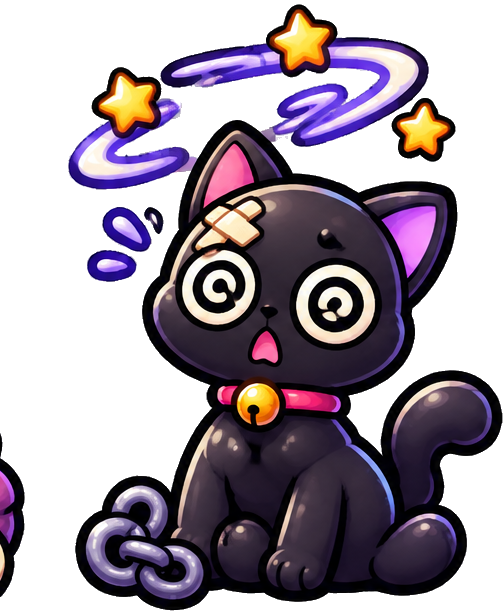
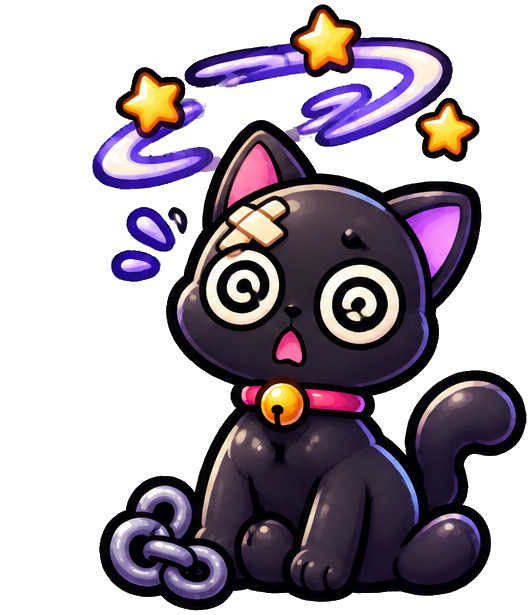
Full-screen prowl result, paw arrows, and two art fixes
Prowl result: was a max-w-lg box floating over the running game. It is now the
whole screen, art on the left and what happened on the right, so the cat is
something you look at rather than a thumbnail above a wall of text. The
backdrop is fully opaque: the prowl canvas stays mounted underneath, and at
any transparency its rooftops showed through and read as a crop on the cat.

result-fall.png carried a detached fragment of tail at x=24..48, separated
from the cat by a gap — a leftover from how the asset was originally cropped.
Cleared it (2,505 pixels) and widened the canvas so nothing touches an edge.

The Diary scroll is drawn narrow and tall, so it fitted the dock's square tile
by height and read smaller than the wide icons beside it. It renders a little
over its box now to match their weight.

Arrows: "→" was a system glyph sitting in pixel-art buttons. Adds ui-forward
(ui-back mirrored, so it is the artist's own cream-and-pink paw) and uses it
in the buttons that move you forward, plus ui-back for Newer in the pager.
Inline text links and the "swipe right / →" key hints keep the character,
where an icon would be wrong.

diff --git a/components/Prowl.tsx b/components/Prowl.tsx
@@ -415,12 +415,12 @@ export default function Prowl({ beast, onSettled, onNeedsKey }: Props) {
         </div>
       )}
 
-      {/* the result, over the scene */}
+      {/* The result: the whole screen, not a box in the middle of it. The backdrop is fully opaque
+          because the prowl canvas stays mounted underneath — at any transparency its rooftops show
+          through the art and read as a crop on the cat. */}
       {phase === "done" && outcome && (
-        <div className="fixed inset-0 flex items-center justify-center overflow-y-auto bg-night-950/70 p-4 backdrop-blur-sm">
-          <div className="glass w-full max-w-lg animate-rise p-5">
-            <Result outcome={outcome} beast={beast} settle={settle} stray={stray} onAgain={() => setPhase("choose")} />
-          </div>
+        <div className="fixed inset-0 z-50 overflow-y-auto bg-night-950">
+          <Result outcome={outcome} beast={beast} settle={settle} stray={stray} onAgain={() => setPhase("choose")} />
         </div>
       )}
     </div>,
@@ -521,50 +521,63 @@ function Result({
   const keptHaul = !(reason === "fell" && daring);
   const awnings = Object.values(result.whips_on_awning).reduce((a, b) => a + b, 0);
   return (
-    <div className="mx-auto flex max-w-md flex-col items-center gap-3 text-center animate-rise">
-      <Art slot={reason === "fell" ? "result-fall" : reason === "cashout" ? "result-cashout" : "result-haul"} alt="" size={200} />
-      <h3 className="title-3d text-2xl">{title}</h3>
-      <p className="text-sm text-mist">
-        {result.rooftops} rooftops{daring ? ` · ×${multiplier({ daring, rooftops: result.rooftops }).toFixed(2)}` : ""} · {result.binds} rats bound
-        {awnings ? ` · ${awnings} bits of mischief` : ""}
-      </p>
-      {result.haul.length ? (
-        <div className={`flex flex-wrap justify-center gap-2 ${keptHaul ? "" : "opacity-40 line-through"}`}>
-          {result.haul.map(([k, n]) => (
-            <span key={k} className="flex items-center gap-1 rounded-full bg-white/5 px-3 py-1 text-sm">
-              <Art slot={`item-${k}`} size={20} alt="" /> {n} {ITEM_LABEL[k] ?? k}
-            </span>
-          ))}
-        </div>
-      ) : (
-        <p className="text-sm text-mist">Paws empty this time.</p>
-      )}
-      {lostLife && (
-        <div className="flex flex-col items-center gap-2">
-          <ChainTail lives={livesAfter} legend={beast?.legend} flash={livesAfter} size="sm" />
-          <p className="text-sm text-[#ffb3a1]">
-            A link went dark{result.mark ? ` and left a mark: ${result.mark.replace("-", " ")}` : ""}. The haul tumbled into the alley
-            {" "}(unless a charm caught it).
-          </p>
-          {result.mark && <Art slot={markSlot(result.mark)} size={56} className="animate-pop" />}
-        </div>
-      )}
-      {stray ? (
-        <p className="text-xs text-mist">Strays keep nothing. Scan a Beast to keep your haul.</p>
-      ) : reason === "quit" ? (
-        <p className="text-xs text-mist">Stopped runs aren&apos;t recorded.</p>
-      ) : settle.state === "pending" ? (
-        <p className="flex items-center gap-2 text-sm text-mist">
-          <Spinner /> Writing it in the diary…
+    // Art on the left, what happened on the right: the screen is wide, so the cat gets room to be
+    // looked at instead of being squeezed into a dialog above a wall of text. Stacks on phones.
+    <div className="mx-auto flex min-h-full w-full max-w-6xl flex-col items-center gap-6 px-4 py-10 animate-rise md:flex-row md:items-center md:gap-12 md:px-10">
+      <div className="flex w-full shrink-0 justify-center md:w-[42%]">
+        <Art
+          slot={reason === "fell" ? "result-fall" : reason === "cashout" ? "result-cashout" : "result-haul"}
+          alt=""
+          className="w-[min(72vw,340px)] drop-shadow-[0_12px_28px_rgba(0,0,0,0.6)] md:w-full md:max-w-[420px]"
+        />
+      </div>
+
+      <div className="flex w-full min-w-0 flex-col items-center gap-3 text-center md:items-start md:text-left">
+        <h3 className="title-3d text-2xl sm:text-3xl">{title}</h3>
+        <p className="text-sm text-mist">
+          {result.rooftops} rooftops{daring ? ` · ×${multiplier({ daring, rooftops: result.rooftops }).toFixed(2)}` : ""} · {result.binds} rats bound
+          {awnings ? ` · ${awnings} bits of mischief` : ""}
         </p>
-      ) : settle.state === "ok" ? (
-        <Notice kind="ok">Saved to {beast?.name ?? "your Beast"}&apos;s diary, and counted in tonight&apos;s check-in.</Notice>
-      ) : settle.state === "err" ? (
-        <Notice kind="err">{settle.text}</Notice>
-      ) : null}
-      <button className="btn btn-lantern" onClick={onAgain} disabled={settle.state === "pending"}>
-        Prowl again
-      </button>
+        {result.haul.length ? (
+          <div className={`flex flex-wrap justify-center gap-2 md:justify-start ${keptHaul ? "" : "opacity-40 line-through"}`}>
+            {result.haul.map(([k, n]) => (
+              <span key={k} className="flex items-center gap-1 rounded-full bg-white/5 px-3 py-1 text-sm">
+                <Art slot={`item-${k}`} size={20} alt="" /> {n} {ITEM_LABEL[k] ?? k}
+              </span>
+            ))}
+          </div>
+        ) : (
+          <p className="text-sm text-mist">Paws empty this time.</p>
+        )}
+        {lostLife && (
+          <div className="flex flex-col items-center gap-2 md:items-start">
+            <ChainTail lives={livesAfter} legend={beast?.legend} flash={livesAfter} size="sm" />
+            <div className="flex items-center gap-3">
+              {result.mark && <Art slot={markSlot(result.mark)} size={48} className="shrink-0 animate-pop" />}
+              <p className="text-sm text-[#ffb3a1]">
+                A link went dark{result.mark ? ` and left a mark: ${result.mark.replace("-", " ")}` : ""}. The haul tumbled into the alley
+                {" "}(unless a charm caught it).
+              </p>
+            </div>
+          </div>
+        )}
+        {stray ? (
+          <p className="text-xs text-mist">Strays keep nothing. Scan a Beast to keep your haul.</p>
+        ) : reason === "quit" ? (
+          <p className="text-xs text-mist">Stopped runs aren&apos;t recorded.</p>
+        ) : settle.state === "pending" ? (
+          <p className="flex items-center gap-2 text-sm text-mist">
+            <Spinner /> Writing it in the diary…
+          </p>
+        ) : settle.state === "ok" ? (
+          <Notice kind="ok">Saved to {beast?.name ?? "your Beast"}&apos;s diary, and counted in tonight&apos;s check-in.</Notice>
+        ) : settle.state === "err" ? (
+          <Notice kind="err">{settle.text}</Notice>
+        ) : null}
+        <button className="btn btn-lantern mt-1 px-8 py-3 text-xl" onClick={onAgain} disabled={settle.state === "pending"}>
+          Prowl again
+        </button>
+      </div>
     </div>
   );
 }

diff --git a/components/WakeFlow.tsx b/components/WakeFlow.tsx
@@ -176,7 +176,7 @@ function ScanAction({ beast, me, tokenId, secret, reload }: { beast: Beast; me: 
           </button>
         </div>
         <Link href="/alley" className="btn btn-ghost btn-sm">
-          Into the alley →
+          Into the alley <Art slot="ui-forward" alt="" size={18} />
         </Link>
       </div>
     );
@@ -238,7 +238,7 @@ function Celebration({ beast, kind }: { beast: Beast; kind: "wake" | "boop" | "a
           {kind !== "wake" && <Marks beast={beast} />}
           <div className="mt-2 flex flex-wrap justify-center gap-2">
             <Link href="/alley" className="btn btn-lantern">
-              {kind === "wake" ? "First prowl →" : "Into the alley →"}
+              {kind === "wake" ? "First prowl" : "Into the alley"} <Art slot="ui-forward" alt="" size={22} />
             </Link>
             <Link href={`/beast/${beast.token_id}`} className="btn btn-ghost">
               Life story

diff --git a/lib/ui/art.ts b/lib/ui/art.ts
@@ -51,6 +51,7 @@ export type ArtSlot =
   | "ui-signout"
   | "ui-close"
   | "ui-back"
+  | "ui-forward"
   | "ui-sound-on"
   | "ui-sound-off"
   | "ui-help"
@@ -211,6 +212,7 @@ export const ART: Record<ArtSlot, ArtSpec> = {
   "ui-signout": s("ui-signout.png", 256, 256, "UI · sign out", "Sign out"),
   "ui-close": s("ui-close.png", 256, 256, "UI · close", "Close a panel or the map"),
   "ui-back": s("ui-back.png", 256, 256, "UI · back", "Go back"),
+  "ui-forward": s("ui-forward.png", 256, 256, "UI · forward", "Go on / continue"),
   "ui-sound-on": s("ui-sound-on.png", 256, 256, "UI · sound on", "The cat speaks out loud"),
   "ui-sound-off": s("ui-sound-off.png", 256, 256, "UI · sound off", "The cat is quiet"),
   "ui-google": s("ui-google.svg", 48, 48, "UI · Google", "Google's G mark, for the sign-in button"),

diff --git a/components/ui.tsx b/components/ui.tsx
@@ -1,4 +1,5 @@
 // Small shared presentational bits: spinner, notices, empty states.
+import Art from "./Art";
 
 export function Spinner({ className = "" }: { className?: string }) {
   return <span className={`spinner ${className}`} role="status" aria-label="Working" />;
@@ -169,10 +170,10 @@ export function Pager({
       </p>
       <div className="flex gap-2">
         <button className="btn btn-ghost btn-sm" onClick={() => onPage(page - 1)} disabled={page === 0}>
-          ← Newer
+          <Art slot="ui-back" alt="" size={16} /> Newer
         </button>
         <button className="btn btn-ghost btn-sm" onClick={() => onPage(page + 1)} disabled={page >= pages - 1}>
-          Older →
+          Older <Art slot="ui-forward" alt="" size={16} />
         </button>
       </div>
     </div>

diff --git a/components/alley/AlleyHub.tsx b/components/alley/AlleyHub.tsx
@@ -248,7 +248,9 @@ function Hub({ accountId }: { accountId: string }) {
                 tab === t.key ? "border-[#1a0b2e] bg-[#ffc93c] shadow-[0_3px_0_#1a0b2e]" : "border-transparent hover:-translate-y-0.5 hover:bg-white/5"
               }`}
             >
-              <Art slot={t.icon} alt="" className="h-11 w-11 sm:h-14 sm:w-14" />
+              {/* The Diary scroll is drawn narrow and tall, so it fits its box by height and reads
+                  smaller than the wide icons beside it. Let it overflow a little to match them. */}
+              <Art slot={t.icon} alt="" className={`h-11 w-11 sm:h-14 sm:w-14 ${t.icon === "ui-ledger" ? "scale-125" : ""}`} />
             </button>
           ))}
           <span className="h-10 w-[3px] rounded bg-[#1a0b2e]" aria-hidden />

diff --git a/components/LandingAuth.tsx b/components/LandingAuth.tsx
@@ -2,6 +2,7 @@
 import Link from "next/link";
 import { useRouter } from "next/navigation";
 import { useSession } from "@/lib/ui/session";
+import Art from "./Art";
 import DemoPicker from "./DemoPicker";
 import GoogleSignIn from "./GoogleSignIn";
 import { Spinner } from "./ui";
@@ -22,7 +23,7 @@ export default function LandingAuth() {
           Welcome back{session.email ? <>, <b className="text-paper">{session.email}</b></> : null}.
         </p>
         <Link href="/room" className="btn btn-lantern self-start">
-          To your cat →
+          To your cat <Art slot="ui-forward" alt="" size={22} />
         </Link>
       </div>
     );

diff --git a/components/DemoPicker.tsx b/components/DemoPicker.tsx
@@ -120,7 +120,9 @@ function CatChoice({ row, busy, onPick }: { row: Row; busy: boolean; onPick: () 
         <p className="text-[11px] text-mist">Still asleep</p>
       )}
 
-      <span className="mt-0.5 font-display text-xs font-semibold text-lantern">{busy ? "Opening the door…" : "Play as this cat →"}</span>
+      <span className="mt-0.5 flex items-center gap-1 font-display text-xs font-semibold text-lantern">
+        {busy ? "Opening the door…" : <>Play as this cat <Art slot="ui-forward" alt="" size={14} /></>}
+      </span>
     </button>
   );
 }

diff --git a/components/room/CatRoom.tsx b/components/room/CatRoom.tsx
@@ -121,7 +121,7 @@ function Gate() {
                   </div>
                 </div>
                 <button className="btn btn-ghost w-full" onClick={() => setStep("demo")}>
-                  See the cats →
+                  See the cats <Art slot="ui-forward" alt="" size={22} />
                 </button>
               </div>
             </div>
